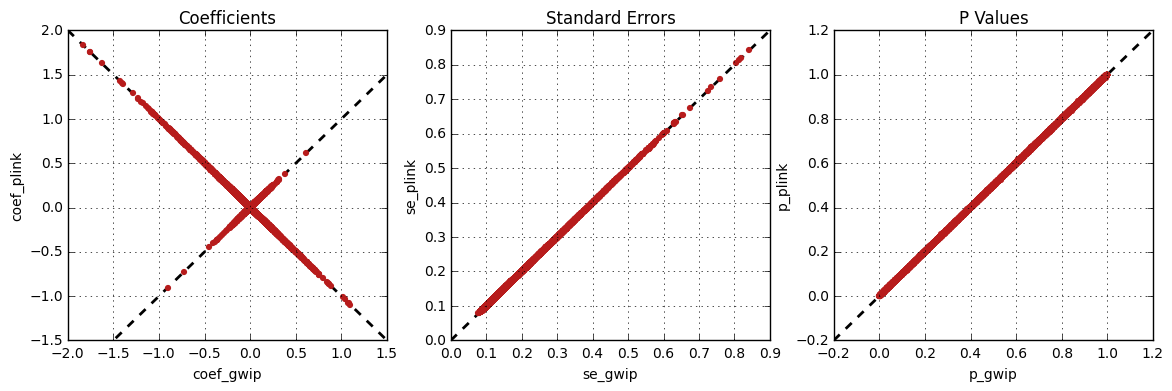
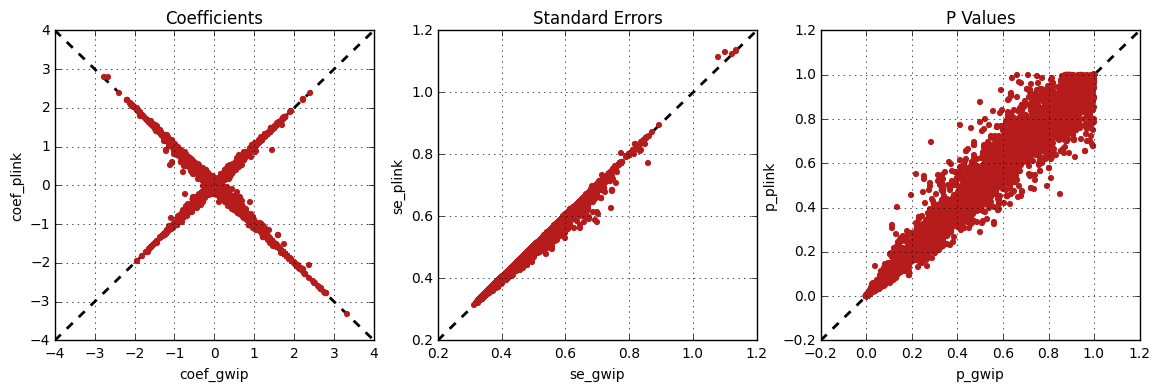
Completed the result comparison section of the logistic tutorial.

diff --git a/docs/tutorials/tutorial_logistic.rst b/docs/tutorials/tutorial_logistic.rst
@@ -324,15 +324,48 @@ The logistic regression results from :py:mod:`gwip` and *Plink* were compared
 for validity. The following figure shows the comparison for, from left to
 right, the coefficients, the standard errors and the *p*-values. The *x* axis
 shows the results from :py:mod:`gwip`, and the *y* axis shows the results for
-*Plink*. The analysis contained 30,000 imputed markers for 2,402 samples.
+*Plink*. This comparison includes 58,769 "good" imputed markers with a MAF
+higher or equal to 10%, analyzed for 60 samples (*i.e* results from this
+tutorial). Note that for this comparison, the **probability threshold**
+(``--prob``) **was changed from 0.9 to 0** to *imitate* *Plink* analysis (see
+note below for more information).
 
-.. figure:: ../_static/images/Logistic_Diff.png
+.. note::
+
+   Only markers with minor allele frequency (MAF) higher or equal to 10% were
+   compared, since markers with lower MAF might have convergence issues (*e.g.*
+   all exposed samples are all cases *or* all controls). In that case, the
+   coefficient is large, and the odds ratio (:math:`e^{coef}`) gets too large.
+
+.. figure:: ../_static/images/Logistic_Diff_Prob0.png
    :align: center
    :width: 100%
-   :alt: Logistic regression comparison between gwip and Plink
+   :alt: Logistic regression comparison between gwip and Plink (prob. of 0)
 
-The sign of the coefficients might be different when comparing :py:mod:`gwip`
-to *Plink*, since :py:mod:`gwip` computes the statistics on the rare allele,
-while *Plink* computes them on the second (alternative) allele. The alternative
-allele might not always be the rarest.
+.. note::
+
+   The sign of the coefficients might be different when comparing
+   :py:mod:`gwip` to *Plink*, since :py:mod:`gwip` computes the statistics on
+   the rare allele, while *Plink* computes them on the second (alternative)
+   allele. The alternative allele might not always be the rarest.
+
+
+.. note::
+
+   By default, :py:mod:`gwip` excludes samples with a maximum probability lower
+   than 0.9 (the ``--prob`` option), while *Plink* keeps all the samples for
+   the analysis. In order to get the same results as *Plink*, the analysis must
+   be done with a probability threshold of 0 (*i.e.* ``--prob 0``, keeping all
+   imputed genotypes including those with poor quality). This is what was done
+   for the previous figure.
+
+   The following figure shows the comparison between *Plink* and :py:mod:`gwip`
+   for the same analysis, but using the default probability threshold of 0.9
+   (excluding imputed genotypes with poor quality). Hence, 5,887 markers were
+   compared.
+
+   .. figure:: ../_static/images/Logistic_Diff.png
+      :align: center
+      :width: 100%
+      :alt: Logistic regression comparison between gwip and Plink
 
